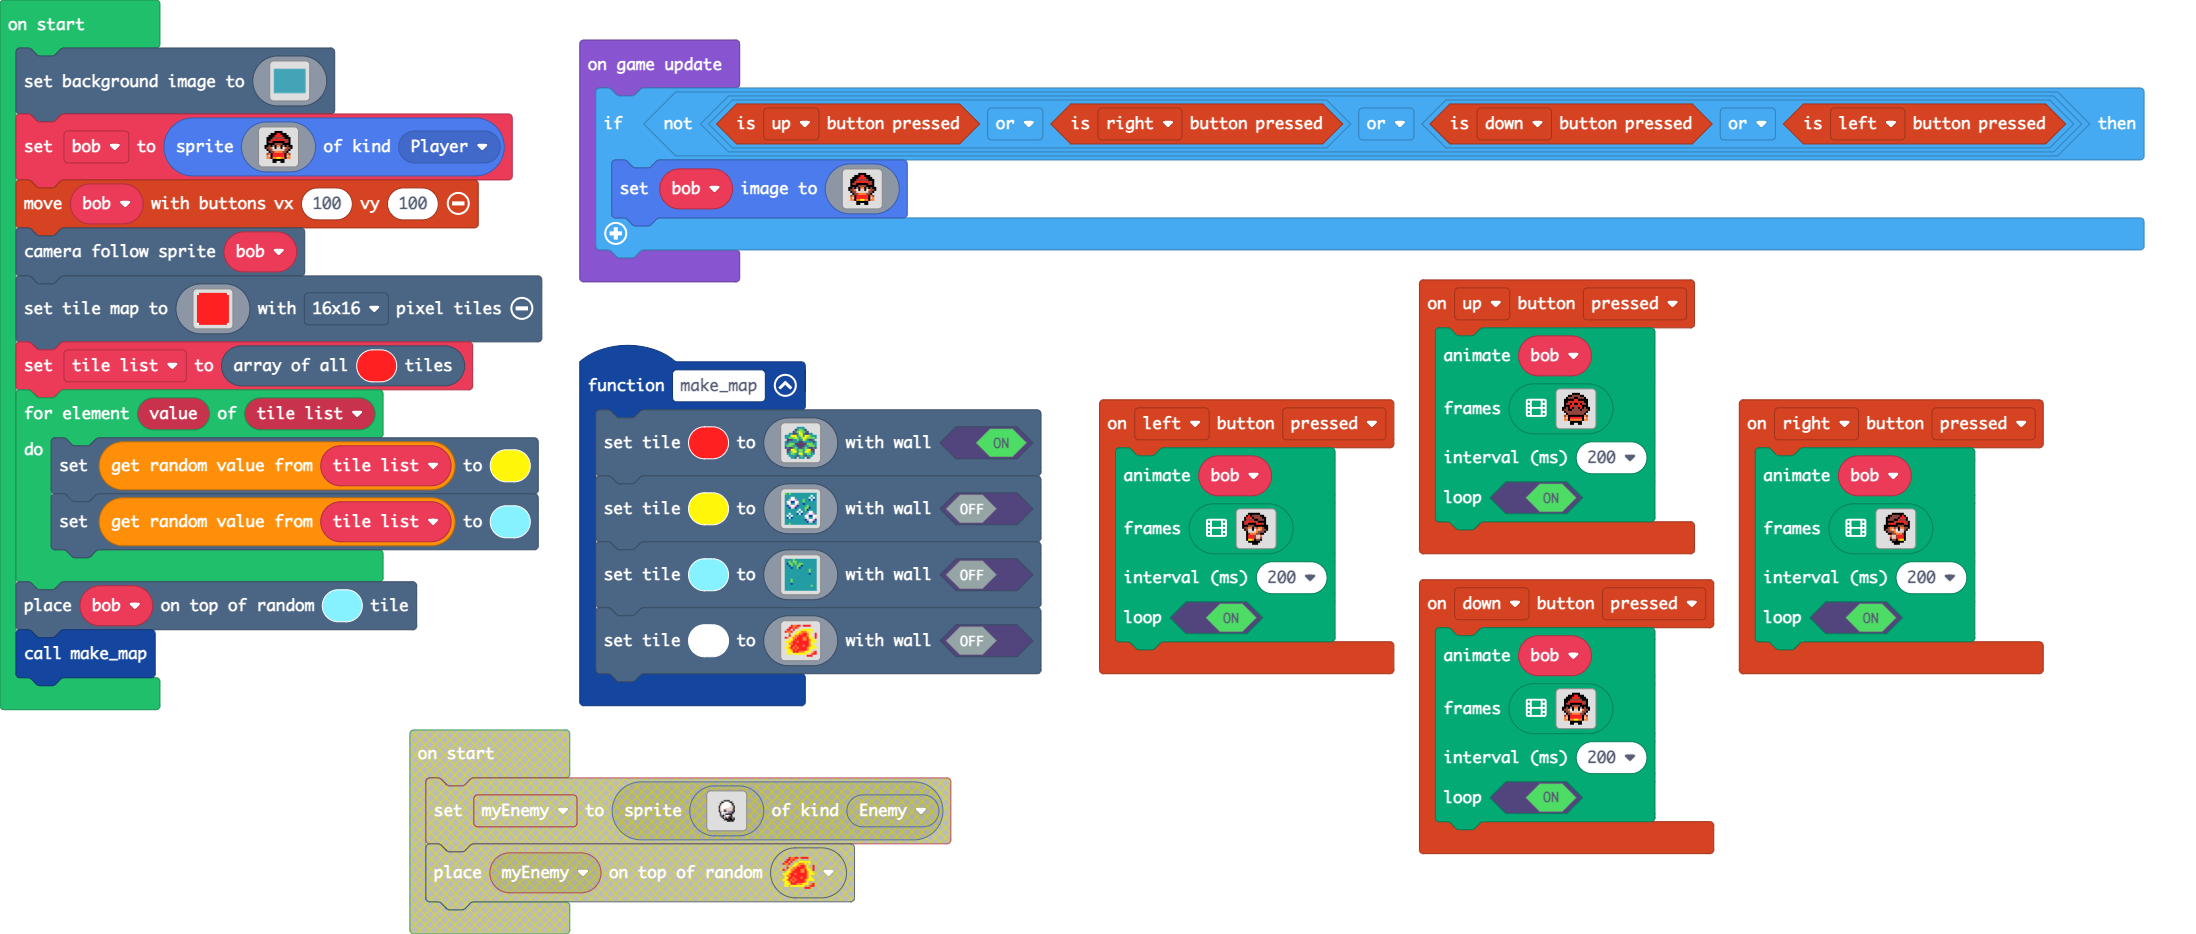
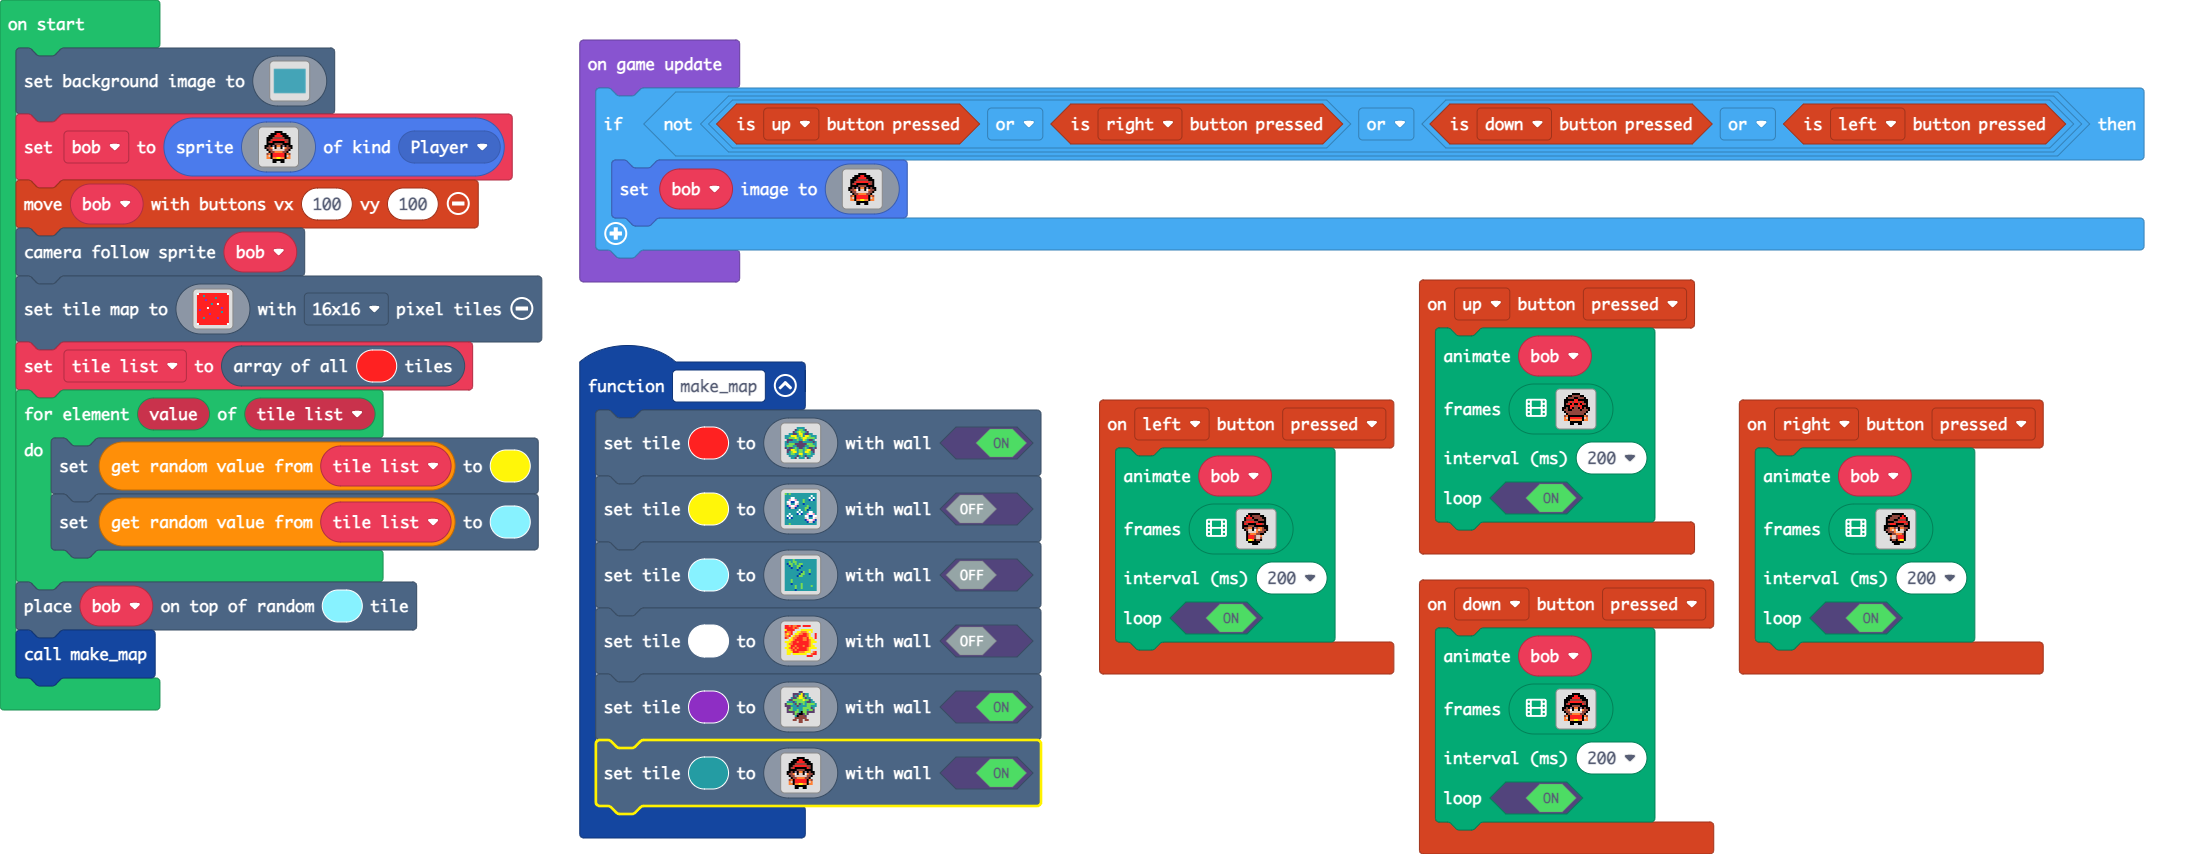
Update main.blocks, main.ts, tilemap.g.jres, tilemap.g.ts, images.g.jres, images.g.ts

diff --git a/images.g.ts b/images.g.ts
@@ -3,25 +3,6 @@ namespace myImages {
 
     helpers._registerFactory("image", function(name: string) {
         switch(helpers.stringTrim(name)) {
-            case "image2":
-            case "player_1":return img`
-. . . . . . f f f f . . . . . . 
-. . . . f f f 2 2 f f f . . . . 
-. . . f f f 2 2 2 2 f f f . . . 
-. . f f f e e e e e e f f f . . 
-. . f f e 2 2 2 2 2 2 e e f . . 
-. . f e 2 f f f f f f 2 e f . . 
-. . f f f f e e e e f f f f . . 
-. f f e f b f 4 4 f b f e f f . 
-. f e e 4 1 f d d f 1 4 e e f . 
-. . f e e d d d d d d e e f . . 
-. . . f e e 4 4 4 4 e e f . . . 
-. . e 4 f 2 2 2 2 2 2 f 4 e . . 
-. . 4 d f 2 2 2 2 2 2 f d 4 . . 
-. . 4 4 f 4 4 5 5 4 4 f 4 4 . . 
-. . . . . f f f f f f . . . . . 
-. . . . . f f . . f f . . . . . 
-`;
             case "d|%p|ZBi=+3R)rQpzAr5":
             case "base_bg":return img`
 6666666666666666666666666666666666666666666666666666666666666666666666666666666666666666666666666666666666666666666666666666666666666666666666666666666666666666
@@ -145,25 +126,6 @@ namespace myImages {
 6666666666666666666666666666666666666666666666666666666666666666666666666666666666666666666666666666666666666666666666666666666666666666666666666666666666666666
 6666666666666666666666666666666666666666666666666666666666666666666666666666666666666666666666666666666666666666666666666666666666666666666666666666666666666666
 `;
-            case "image1":
-            case "level_0":return img`
-1 2 2 2 2 2 2 2 2 2 2 2 2 2 2 1 
-2 2 2 2 2 2 2 2 2 2 2 2 2 2 2 2 
-2 2 2 2 2 2 2 2 2 2 2 2 2 2 2 2 
-2 2 2 2 2 2 2 2 2 2 2 2 2 2 2 2 
-2 2 2 2 2 2 2 2 2 2 2 2 2 2 2 2 
-2 2 2 2 2 2 2 2 2 2 2 2 2 2 2 2 
-2 2 2 2 2 2 2 2 2 2 2 2 2 2 2 2 
-2 2 2 2 2 2 2 2 2 2 2 2 2 2 2 2 
-2 2 2 2 2 2 2 2 2 2 2 2 2 2 2 2 
-2 2 2 2 2 2 2 2 2 2 2 2 2 2 2 2 
-2 2 2 2 2 2 2 2 2 2 2 2 2 2 2 2 
-2 2 2 2 2 2 2 2 2 2 2 2 2 2 2 2 
-2 2 2 2 2 2 2 2 2 2 2 2 2 2 2 2 
-2 2 2 2 2 2 2 2 2 2 2 2 2 2 2 2 
-2 2 2 2 2 2 2 2 2 2 2 2 2 2 2 2 
-1 2 2 2 2 2 2 2 2 2 2 2 2 2 2 1 
-`;
             case "image3":
             case "bomb":return img`
 . . . . . . . 4 2 5 . . . . . . 
@@ -209,6 +171,44 @@ namespace myImages {
 ........................
 ........................
 ........................
+`;
+            case "image1":
+            case "level_0":return img`
+1 2 2 2 2 2 2 2 2 2 2 2 2 2 2 1 
+2 2 2 6 2 2 2 2 2 2 2 2 2 2 2 2 
+2 2 2 2 2 2 2 2 2 6 2 2 2 2 2 2 
+2 2 2 2 a 2 2 2 2 2 2 2 2 2 2 2 
+2 2 2 2 2 2 2 2 2 2 2 2 2 2 2 2 
+2 2 2 2 2 2 2 6 2 2 1 2 2 2 2 2 
+2 2 2 2 2 2 2 2 2 2 2 2 2 2 2 2 
+2 2 2 2 2 1 2 2 2 2 2 2 a 2 2 2 
+2 a 2 2 2 2 2 2 2 2 2 2 2 2 2 2 
+2 2 2 2 2 2 2 2 2 2 2 2 6 2 2 2 
+2 2 2 2 2 2 a 2 2 2 2 2 2 2 2 2 
+2 2 2 2 2 2 2 2 2 2 2 2 2 2 2 2 
+2 2 2 6 2 2 2 2 2 2 a 2 2 2 2 2 
+2 2 2 2 2 2 2 2 2 2 2 2 2 2 2 2 
+2 2 2 2 2 2 2 2 2 2 2 2 2 2 2 2 
+1 2 2 2 2 2 2 2 2 2 2 2 2 2 2 1 
+`;
+            case "image2":
+            case "player_1":return img`
+. . . . . . f f f f . . . . . . 
+. . . . f f f 2 2 f f f . . . . 
+. . . f f f 2 2 2 2 f f f . . . 
+. . f f f e e e e e e f f f . . 
+. . f f e 2 2 2 2 2 2 e e f . . 
+. . f e 2 f f f f f f 2 e f . . 
+. . f f f f e e e e f f f f . . 
+. f f e f b f 4 4 f b f e f f . 
+. f e e 4 1 f d d f 1 4 e e f . 
+. . f e e d d d d d d e e f . . 
+. . . f e e 4 4 4 4 e e f . . . 
+. . e 4 f 2 2 2 2 2 2 f 4 e . . 
+. . 4 d f 2 2 2 2 2 2 f d 4 . . 
+. . 4 4 f 4 4 5 5 4 4 f 4 4 . . 
+. . . . . f f f f f f . . . . . 
+. . . . . f f . . f f . . . . . 
 `;
         }
         return null;

diff --git a/tilemap.g.ts b/tilemap.g.ts
@@ -3,8 +3,6 @@ namespace myTiles {
     //% fixedInstance jres blockIdentity=images._tile
     export const transparency16 = image.ofBuffer(hex``);
     //% fixedInstance jres blockIdentity=images._tile
-    export const tile3 = image.ofBuffer(hex``);
-    //% fixedInstance jres blockIdentity=images._tile
     export const tile4 = image.ofBuffer(hex``);
     //% fixedInstance jres blockIdentity=images._tile
     export const tile2 = image.ofBuffer(hex``);
@@ -12,12 +10,12 @@ namespace myTiles {
     export const tile1 = image.ofBuffer(hex``);
     //% fixedInstance jres blockIdentity=images._tile
     export const tile5 = image.ofBuffer(hex``);
+    //% fixedInstance jres blockIdentity=images._tile
+    export const tile3 = image.ofBuffer(hex``);
 
     helpers._registerFactory("tile", function(name: string) {
         switch(helpers.stringTrim(name)) {
             case "transparency16":return transparency16;
-            case "tile_2":
-            case "tile3":return tile3;
             case "tile_0_open":
             case "tile4":return tile4;
             case "tile_1":
@@ -26,6 +24,8 @@ namespace myTiles {
             case "tile1":return tile1;
             case "fire_hole":
             case "tile5":return tile5;
+            case "tile_2":
+            case "tile3":return tile3;
         }
         return null;
     })

diff --git a/main.ts b/main.ts
@@ -38,6 +38,25 @@ function make_map () {
     scene.setTile(5, assets.tile`tile_1`, false)
     scene.setTile(9, assets.tile`tile_2`, false)
     scene.setTile(1, assets.tile`fire_hole`, false)
+    scene.setTile(10, img`
+        . . . . . . . c c . . . . . . . 
+        . . . . c c c 6 5 c 6 6 . . . . 
+        . . . . c 6 c 5 5 c 7 6 . . . . 
+        . . . 6 c c 7 5 5 7 c 6 6 . . . 
+        . . c c 7 7 7 7 7 5 7 7 c 6 . . 
+        . 6 6 6 c 6 7 7 7 7 6 c c 6 6 . 
+        c 7 7 7 6 c 7 c 6 7 6 7 7 7 7 6 
+        c c c 6 6 6 c 6 6 6 6 7 7 6 6 6 
+        . c c 7 6 6 6 6 6 7 7 7 7 c 6 . 
+        . c 7 7 6 6 7 6 6 7 7 6 7 7 c . 
+        . c c c c 7 7 6 f 7 7 c c c c . 
+        . . . . c 7 c f f c 7 c . . . . 
+        . . . . . 6 f e e e c . . . . . 
+        . . . . . e e e e e e . . . . . 
+        . . . . e e . e e . e e . . . . 
+        . . . . . . . e e . . . . . . . 
+        `, true)
+    scene.setTile(6, assets.image`player_1`, true)
 }
 let bob: Sprite = null
 scene.setBackgroundImage(assets.image`base_bg`)
